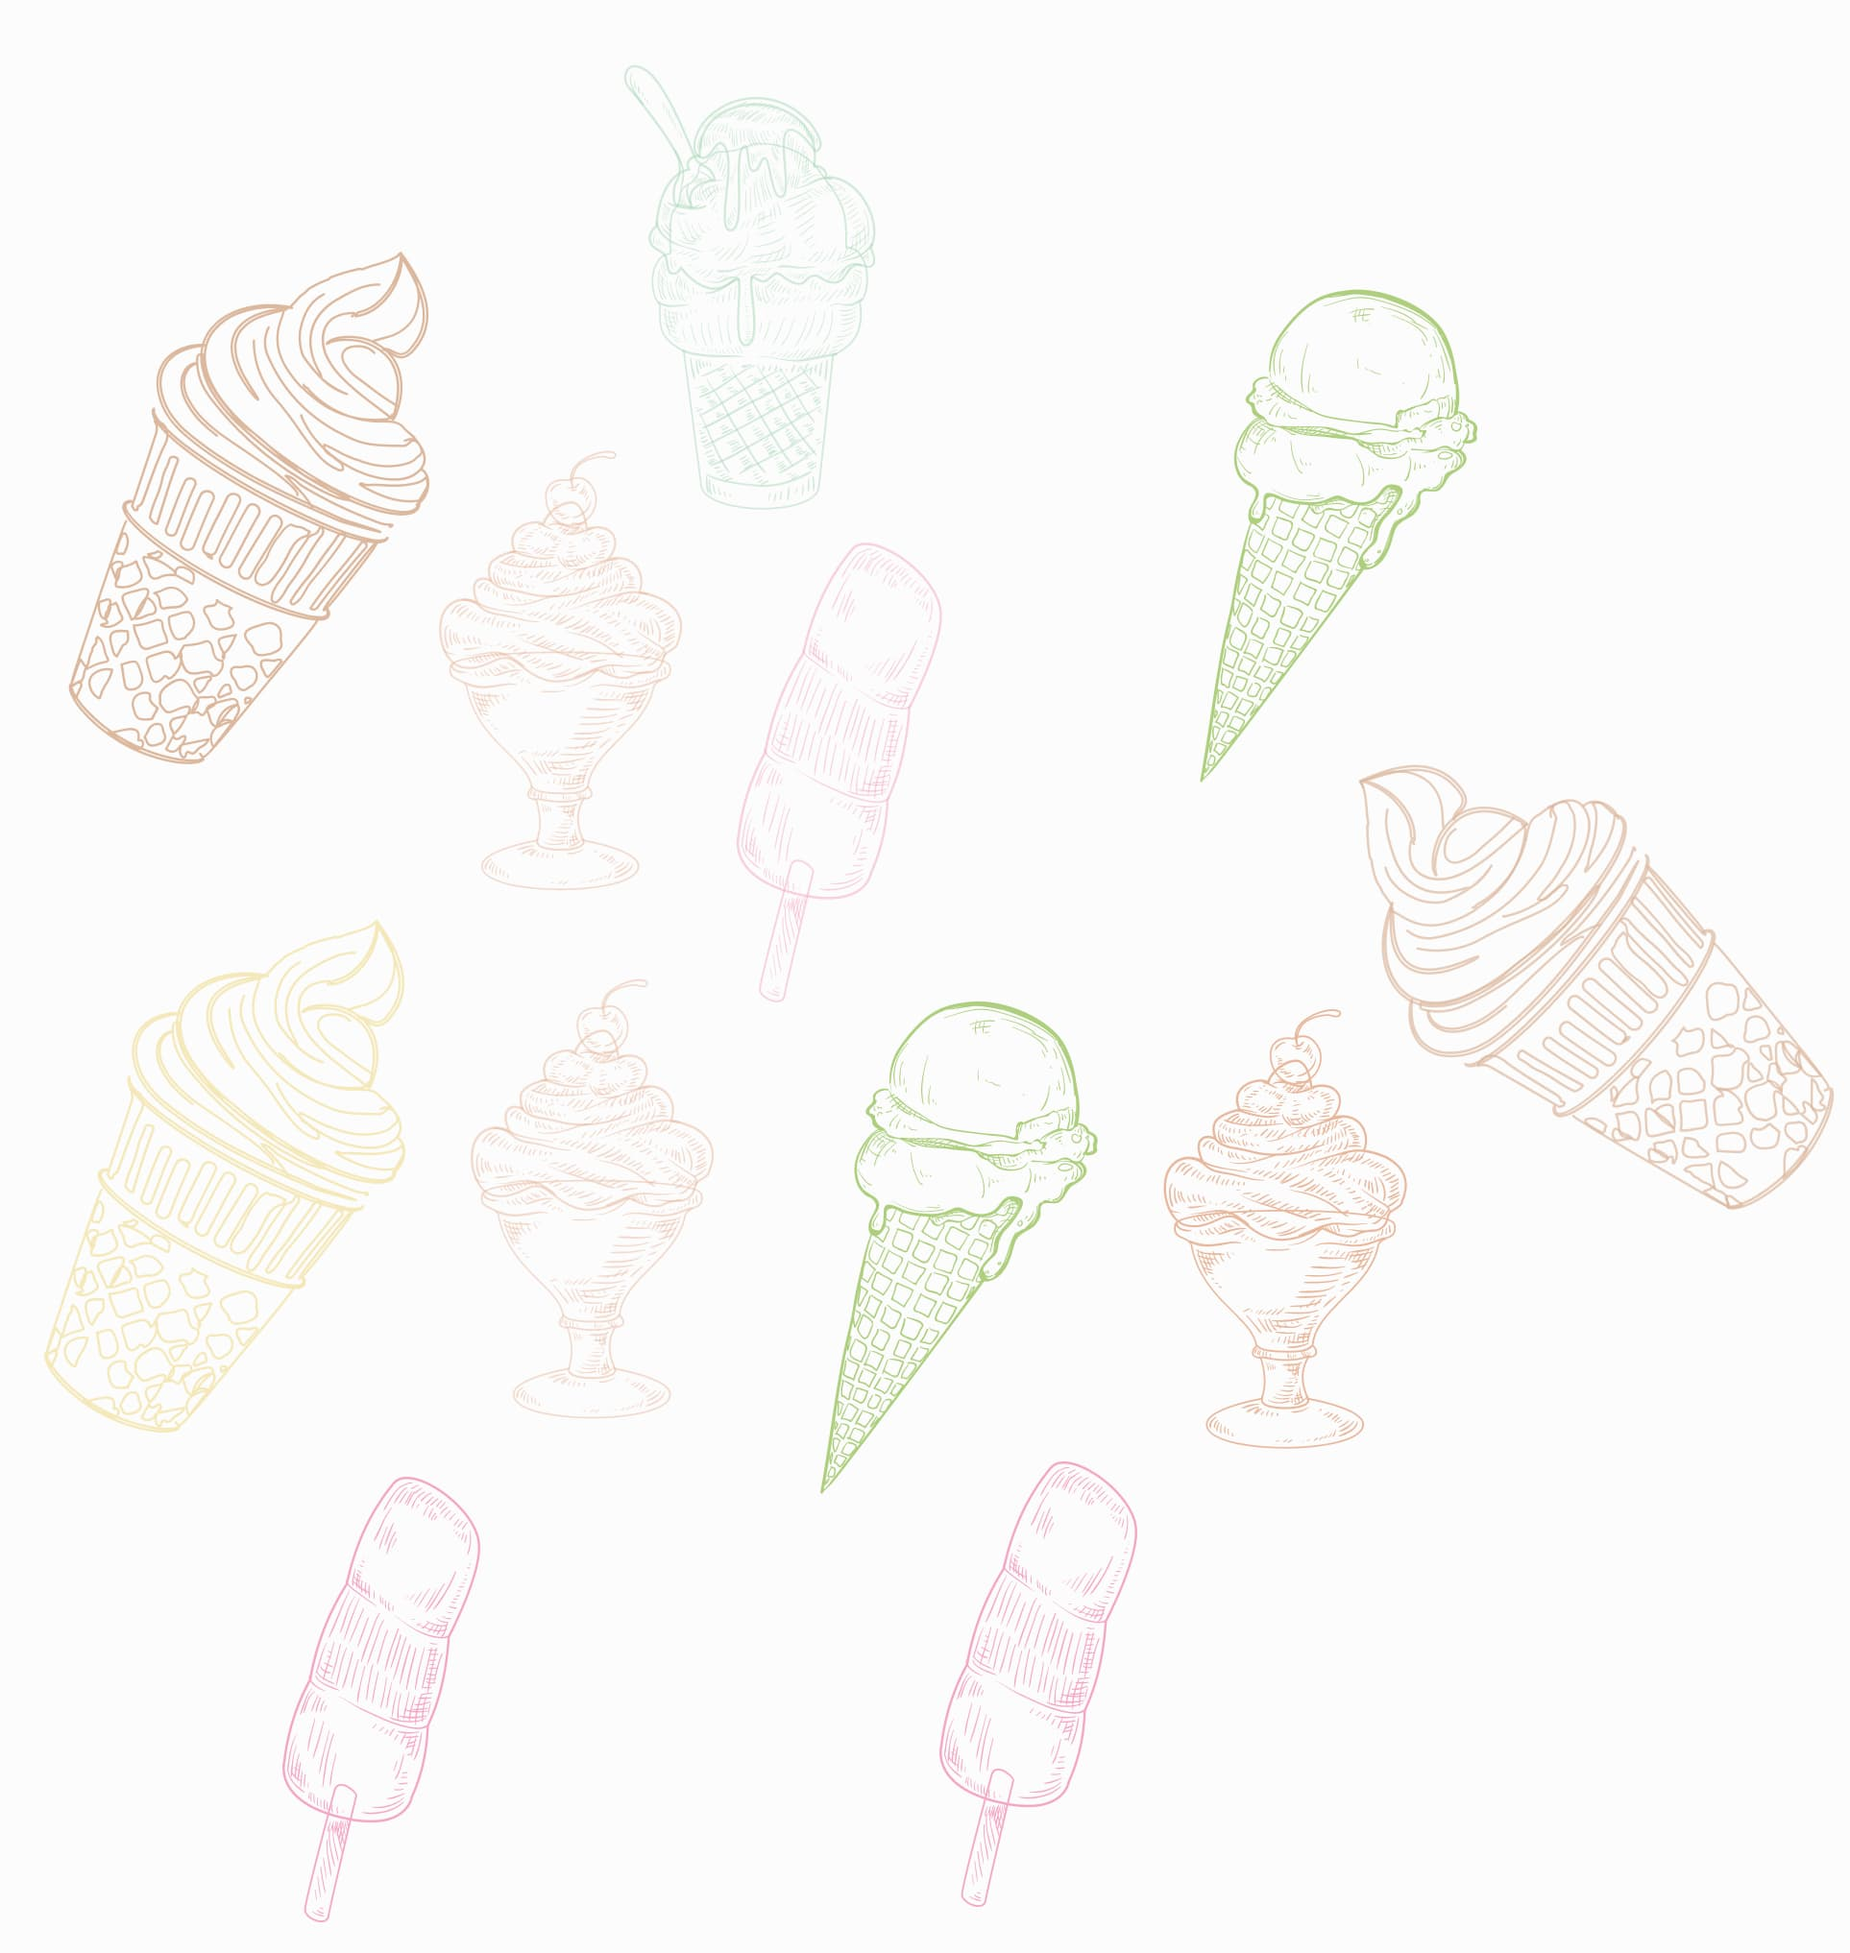
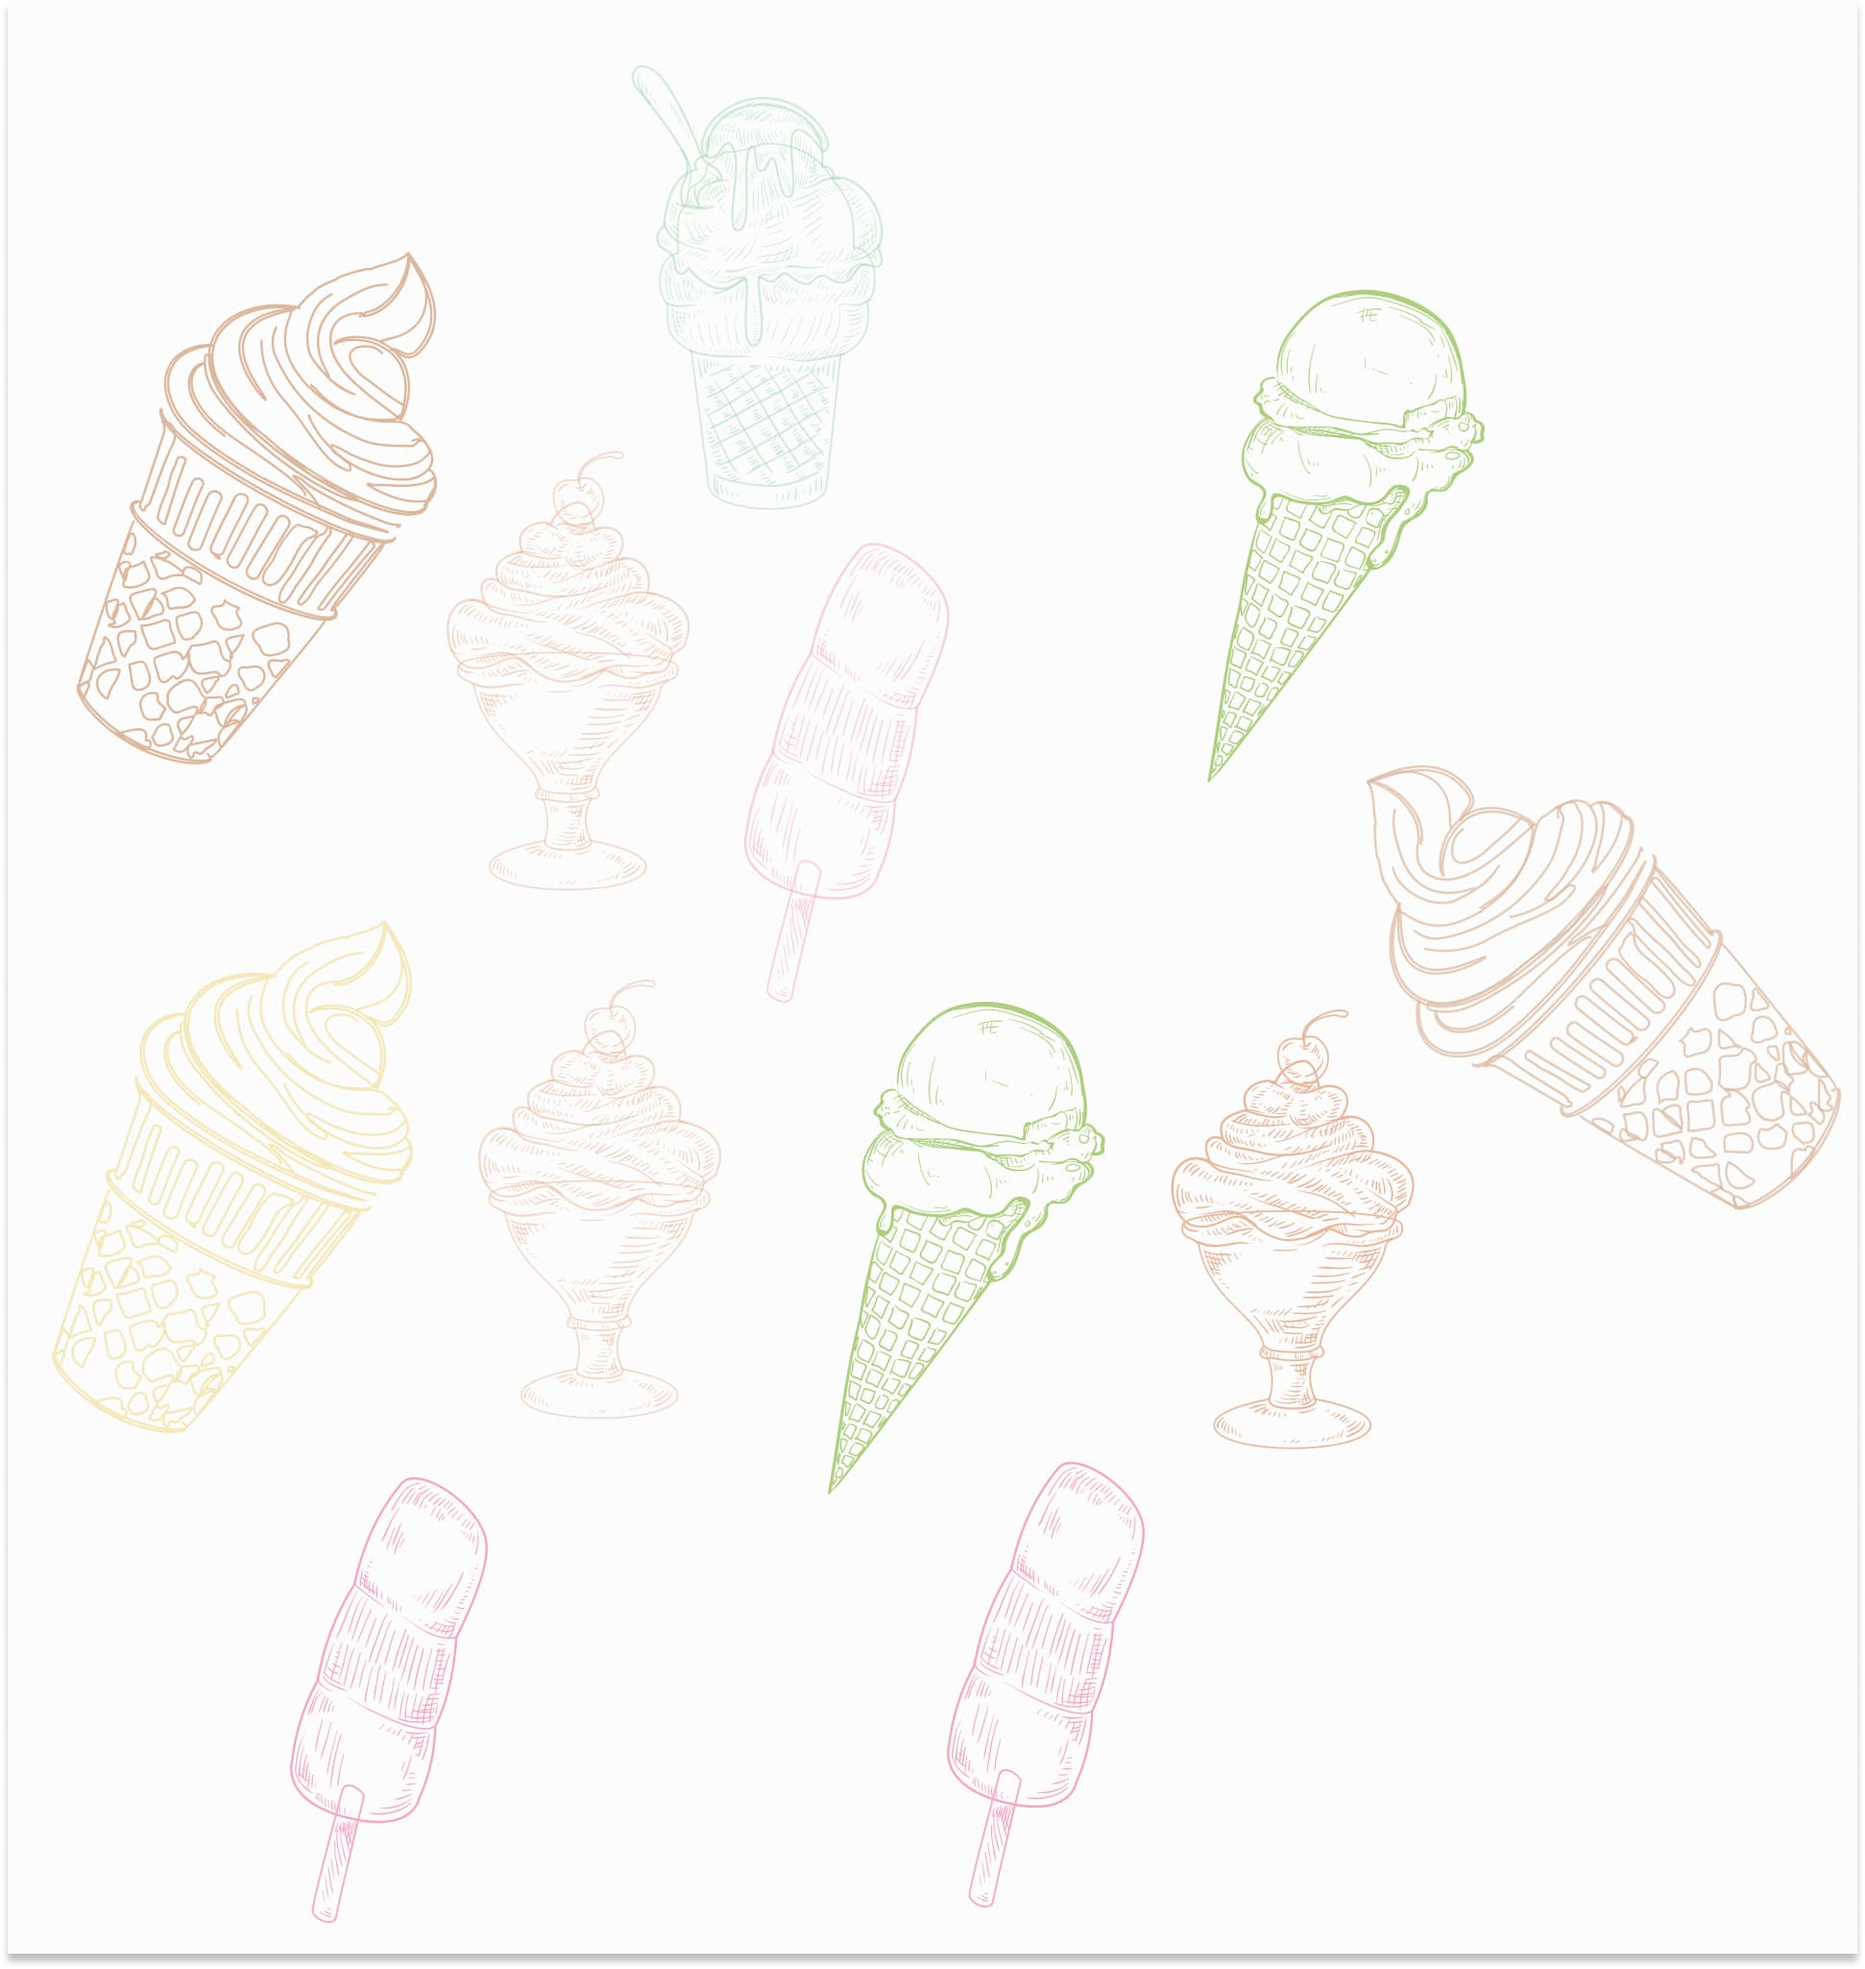
corected bg-img retina &

diff --git a/src/sass/base/_base.scss b/src/sass/base/_base.scss
@@ -15,67 +15,68 @@ body {
   color: var(--main-text-cl);
   font-size: 14px;
   letter-spacing: 0.04em;
-
-  background-position: center;
-  background-size: contain;
-  background-attachment: fixed;
-
-    &::-webkit-scrollbar {
+  
+  &::-webkit-scrollbar {
       width: 0px;
     }
   
-    &::-webkit-scrollbar-track {
-      background-color: #dedcdc;
-    }
+    // &::-webkit-scrollbar-track {
+    //   background-color: #dedcdc;
+    // }
   
-    &::-webkit-scrollbar-thumb {
-      background-color: #ababab;
-      border-radius: 8px;
-      border: 2px solid #dedcdc;
-    }
+    // &::-webkit-scrollbar-thumb {
+    //   background-color: #ababab;
+    //   border-radius: 8px;
+    //   border: 2px solid #dedcdc;
+    // }
+
+  background-position: center;
+  // background-size: contain;
+  background-size: cover;
+  background-attachment: fixed;
 
   background-image: url(../images/background-body/background_mobile@1x.jpg);
 
   @media screen and (min-device-pixel-ratio: 2),
-  screen and (min-resolution: 192dpi),
-  screen and (min-resolution: 2dppx) {
+    (min-resolution: 192dpi),
+    (min-resolution: 2dppx) {
     background-image: url(../images/background-body/background_mobile@2x.jpg);
   }
 
   @media screen and (min-device-pixel-ratio: 3),
-  screen and (min-resolution: 288dpi),
-  screen and (min-resolution: 3dppx) {
+    (min-resolution: 288dpi),
+    (min-resolution: 3dppx) {
     background-image: url(../images/background-body/background_mobile@3x.jpg);
   }
 
-  @media screen and (min-width: 768px) {
+  @media screen and (min-width: 481px) {
     background-image: url(../images/background-body/background_tablet@1x.jpg);
 
     @media screen and (min-device-pixel-ratio: 2),
-    screen and (min-resolution: 192dpi),
-    screen and (min-resolution: 2dppx) {
+    (min-resolution: 192dpi),
+    (min-resolution: 2dppx) {
       background-image: url(../images/background-body/background_tablet@2x.jpg);
     }
 
     @media screen and (min-device-pixel-ratio: 3),
-    screen and (min-resolution: 288dpi),
-    screen and (min-resolution: 3dppx) {
+      (min-resolution: 288dpi),
+      (min-resolution: 3dppx) {
       background-image: url(../images/background-body/background_tablet@3x.jpg);
     }
   }
 
-  @media screen and (min-width: 1200px) {
-    backgrouтзьnd-image: url(../images/background-body/background_desktop@1x.jpg);
+  @media screen and (min-width: 769px) {
+    background-image: url(../images/background-body/background_desktop@1x.jpg);
 
     @media screen and (min-device-pixel-ratio: 2),
-    screen and (min-resolution: 192dpi),
-    screen and (min-resolution: 2dppx) {
+      (min-resolution: 192dpi),
+      (min-resolution: 2dppx) {
       background-image: url(../images/background-body/background_desktop@2x.jpg);
     }
 
     @media screen and (min-device-pixel-ratio: 3),
-    screen and (min-resolution: 288dpi),
-    screen and (min-resolution: 3dppx) {
+    (min-resolution: 288dpi),
+    (min-resolution: 3dppx) {
       background-image: url(../images/background-body/background_desktop@3x.jpg);
     }
   }

diff --git a/src/partials/advantages.html b/src/partials/advantages.html
@@ -4,7 +4,7 @@
         <ul class="advantages__card-set">
             <li class="advantages__item">
                 <div id="counter">
-                    <div data-num="721" class="number advantages__count">0</div>
+                    <div data-num="721" class="number advantages__count">721</div>
                     <div class="text">
                         <p class="advantages__text">
                             Aliquam ac dui vel dui vulputate consectetur. Mauris massa.
@@ -14,7 +14,7 @@
             </li>
             <li class="advantages__item">
                 <div id="counter" class="advantages__block-js">
-                    <div data-num="16" class="number advantages__count">0</div>
+                    <div data-num="16" class="number advantages__count">16</div>
                     <span class="advantages__count">kg</span>
                 </div>
                 <p class="advantages__text">
@@ -23,7 +23,7 @@
             </li>
             <li class="advantages__item">
                 <div id="counter">
-                    <div data-num="84" class="number advantages__count">0</div>
+                    <div data-num="84" class="number advantages__count">84</div>
                     <div class="text">
                         <p class="advantages__text">
                             Aliquam ac dui vel dui vulputate consectetur. Mauris massa.
